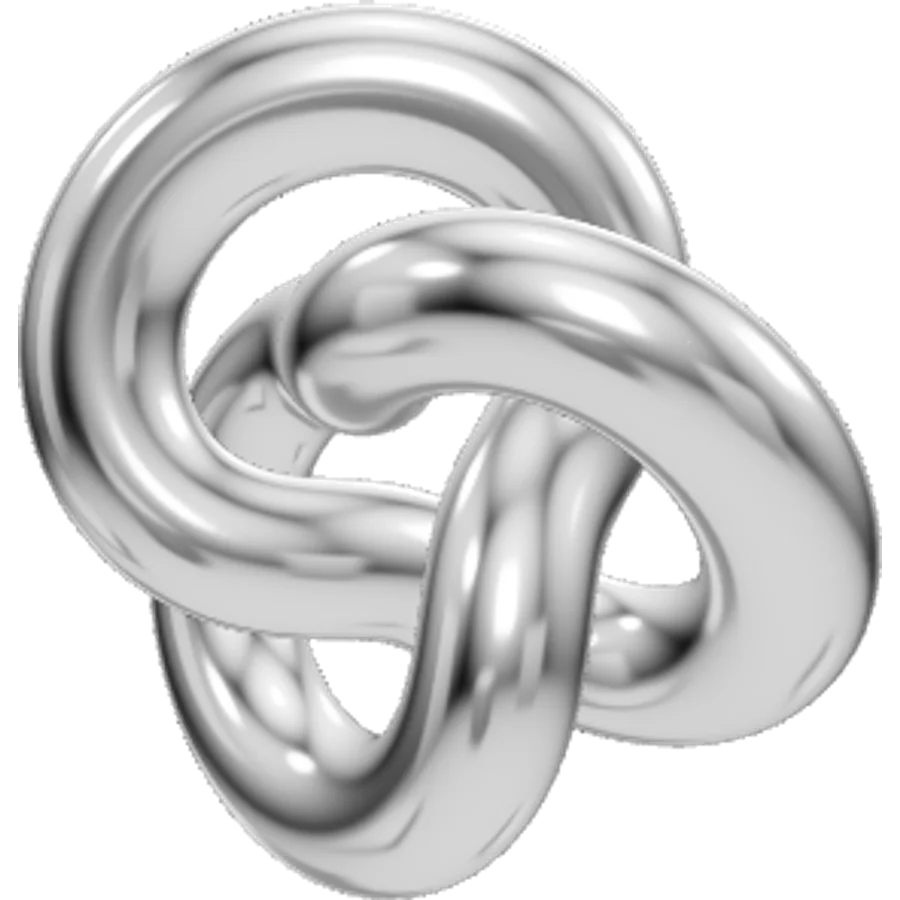
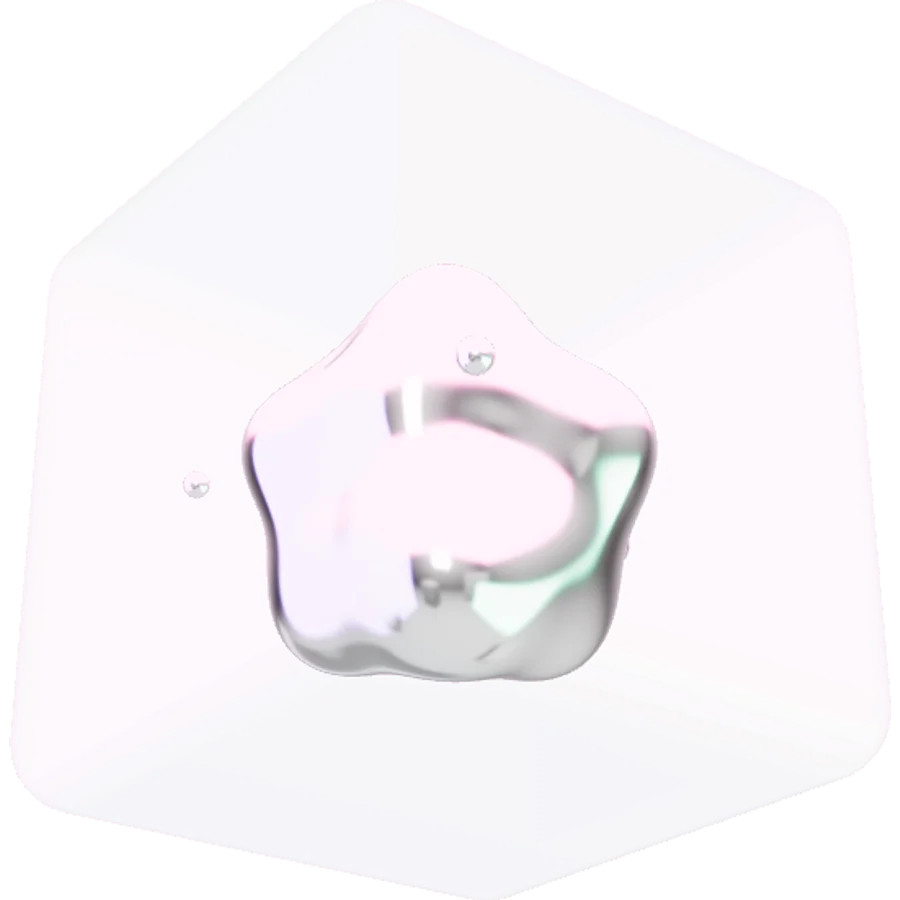
feat: hero becomes an acrylic cube holding iridescent liquid metal, placed behind the name
Claude-Session: https://claude.ai/code/session_01EcjqQSagYYCAYSAFJ2yq83

diff --git a/src/scripts/chrome-hero.ts b/src/scripts/chrome-hero.ts
@@ -1,32 +1,126 @@
 import {
   ACESFilmicToneMapping,
+  Color,
   Clock,
-  EquirectangularReflectionMapping,
+  DoubleSide,
+  Group,
+  MeshBasicMaterial,
+  PlaneGeometry,
   Mesh,
   MeshPhysicalMaterial,
   PerspectiveCamera,
   PMREMGenerator,
   Scene,
+  SphereGeometry,
   SRGBColorSpace,
-  TextureLoader,
-  TorusKnotGeometry,
+  Vector3,
   WebGLRenderer,
-  type Texture,
 } from 'three';
 import { RoomEnvironment } from 'three/examples/jsm/environments/RoomEnvironment.js';
+import { RoundedBoxGeometry } from 'three/examples/jsm/geometries/RoundedBoxGeometry.js';
 
-export type ChromeHero = { setReflection(url: string | null): void; dispose(): void };
+export type ChromeHero = { dispose(): void };
 
-/** The hero object. Swap this for a GLTF mesh exported from Blender later. */
-function createShape(): Mesh {
-  const material = new MeshPhysicalMaterial({
+type Artifact = { object: Group; update(t: number): void; dispose(): void };
+
+/**
+ * The hero artifact: a frosted acrylic cube (matching the ARCHIVE boxes) holding a slowly
+ * morphing liquid metal with an iridescent, thin-film sheen, plus a few drifting droplets.
+ */
+function createArtifact(): Artifact {
+  const group = new Group();
+
+  const glass = new MeshPhysicalMaterial({
+    color: 0xf4f3fb,
+    metalness: 0.1,
+    roughness: 0.18,
+    transparent: true,
+    opacity: 0.22,
+    clearcoat: 1,
+    side: DoubleSide,
+    depthWrite: false,
+  });
+  const cube = new Mesh(new RoundedBoxGeometry(2.3, 2.3, 2.3, 8, 0.25), glass);
+  cube.renderOrder = 2;
+
+  const liquid = new MeshPhysicalMaterial({
     color: 0xffffff,
     metalness: 1,
-    roughness: 0.08,
+    roughness: 0.06,
     clearcoat: 1,
     clearcoatRoughness: 0.04,
+    iridescence: 1,
+    iridescenceIOR: 1.8,
+    iridescenceThicknessRange: [100, 1100],
   });
-  return new Mesh(new TorusKnotGeometry(1, 0.32, 256, 48), material);
+
+  const blobGeo = new SphereGeometry(0.72, 128, 96);
+  const base = Float32Array.from(blobGeo.attributes.position.array as Float32Array);
+  const blob = new Mesh(blobGeo, liquid);
+
+  const droplets = [0.09, 0.065, 0.05].map((r, i) => {
+    const d = new Mesh(new SphereGeometry(r, 48, 32), liquid);
+    d.userData = { radius: 0.78 + i * 0.12, speed: 0.35 + i * 0.17, phase: i * 2.1, tilt: 0.6 - i * 0.45 };
+    return d;
+  });
+
+  group.add(blob, ...droplets, cube);
+
+  const v = new Vector3();
+  const pos = blobGeo.attributes.position;
+  const update = (t: number) => {
+    // Layered sine waves over the sphere: slow, breathing, never repeating exactly.
+    for (let i = 0; i < pos.count; i++) {
+      v.set(base[i * 3], base[i * 3 + 1], base[i * 3 + 2]);
+      const n = v.clone().normalize();
+      const d =
+        0.13 * Math.sin(n.x * 3.0 + t * 0.9) * Math.cos(n.y * 2.6 + t * 0.7) +
+        0.08 * Math.sin(n.z * 4.1 + n.x * 2.0 + t * 1.3) +
+        0.045 * Math.sin(n.y * 6.0 + t * 1.7);
+      v.addScaledVector(n, d);
+      pos.setXYZ(i, v.x, v.y, v.z);
+    }
+    pos.needsUpdate = true;
+    blobGeo.computeVertexNormals();
+    blob.rotation.y = t * 0.12;
+    blob.rotation.x = Math.sin(t * 0.21) * 0.3;
+    for (const d of droplets) {
+      const { radius, speed, phase, tilt } = d.userData as { radius: number; speed: number; phase: number; tilt: number };
+      const a = t * speed + phase;
+      d.position.set(Math.cos(a) * radius, Math.sin(a * 1.3) * tilt, Math.sin(a) * radius);
+    }
+  };
+  update(0);
+
+  return {
+    object: group,
+    update,
+    dispose() {
+      group.traverse((o) => {
+        if ((o as Mesh).geometry) (o as Mesh).geometry.dispose();
+      });
+      glass.dispose();
+      liquid.dispose();
+    },
+  };
+}
+
+/** The studio the metal reflects: a neutral room plus soft lavender, mint and pink light panels. */
+function dreamyRoom(): RoomEnvironment {
+  const room = new RoomEnvironment();
+  const panels: [string, [number, number, number], [number, number, number]][] = [
+    ['#9d86ff', [-4.5, 2, 1], [0, Math.PI / 2, 0]],
+    ['#5ff2b8', [4.5, -1, 1.5], [0, -Math.PI / 2, 0]],
+    ['#ff7ac8', [0, 4.5, -1], [Math.PI / 2, 0, 0]],
+    ['#7fd3ff', [0, -4.5, 2], [-Math.PI / 2, 0, 0]],
+  ];
+  for (const [hex, p, r] of panels) {
+    const m = new Mesh(new PlaneGeometry(7, 7), new MeshBasicMaterial({ color: new Color(hex).multiplyScalar(9), side: DoubleSide }));
+    m.position.set(...p);
+    m.rotation.set(...r);
+    room.add(m);
+  }
+  return room;
 }
 
 function webglAvailable(): boolean {
@@ -56,17 +150,20 @@ export function mountChromeHero(canvas: HTMLCanvasElement, opts: { reducedMotion
   camera.position.set(0, 0, 8);
 
   const pmrem = new PMREMGenerator(renderer);
-  const roomEnv = pmrem.fromScene(new RoomEnvironment(), 0.04).texture;
+  const roomEnv = pmrem.fromScene(dreamyRoom(), 0.04).texture;
   scene.environment = roomEnv;
 
-  const mesh = createShape();
-  scene.add(mesh);
+  const artifact = createArtifact();
+  const obj = artifact.object;
+  scene.add(obj);
 
   const touch = window.matchMedia('(pointer: coarse)').matches;
-  const target = { x: 0.35, y: -0.5 };
+  const target = { x: -0.45, y: 0.65 };
   const clock = new Clock();
   let frame = 0;
   let disposed = false;
+
+  const render = () => renderer.render(scene, camera);
 
   const resize = () => {
     const w = canvas.clientWidth;
@@ -74,81 +171,46 @@ export function mountChromeHero(canvas: HTMLCanvasElement, opts: { reducedMotion
     if (!w || !h) return;
     renderer.setSize(w, h, false);
     camera.aspect = w / h;
-    // Keep the object about 45% of the shorter side.
-    const fit = Math.min(1, camera.aspect) * 0.95;
-    mesh.scale.setScalar(fit);
+    obj.scale.setScalar(Math.min(1, camera.aspect) * 0.95);
     camera.updateProjectionMatrix();
     render();
   };
 
-  const render = () => renderer.render(scene, camera);
-
   const onPointer = (e: PointerEvent) => {
-    target.y = (e.clientX / window.innerWidth - 0.5) * 1.6;
-    target.x = (e.clientY / window.innerHeight - 0.5) * 1.0;
+    target.y = 0.65 + (e.clientX / window.innerWidth - 0.5) * 1.2;
+    target.x = -0.45 + (e.clientY / window.innerHeight - 0.5) * 0.7;
   };
 
   const loop = () => {
     if (disposed) return;
     const dt = Math.min(clock.getDelta(), 0.05);
     if (touch) {
-      mesh.rotation.y += 0.15 * dt;
-      mesh.rotation.x += 0.05 * dt;
+      obj.rotation.y += 0.15 * dt;
     } else {
-      mesh.rotation.x += (target.x - mesh.rotation.x) * Math.min(1, dt * 2.5);
-      mesh.rotation.y += (target.y - mesh.rotation.y) * Math.min(1, dt * 2.5);
-      mesh.rotation.z += 0.08 * dt;
+      obj.rotation.x += (target.x - obj.rotation.x) * Math.min(1, dt * 2.5);
+      obj.rotation.y += (target.y - obj.rotation.y) * Math.min(1, dt * 2.5);
     }
+    artifact.update(clock.elapsedTime);
     render();
     frame = requestAnimationFrame(loop);
   };
 
+  obj.rotation.set(target.x, target.y, 0);
   const observer = new ResizeObserver(resize);
   observer.observe(canvas);
   if (!opts.reducedMotion) {
     if (!touch) window.addEventListener('pointermove', onPointer, { passive: true });
     frame = requestAnimationFrame(loop);
   }
-  mesh.rotation.set(target.x, target.y, 0);
   resize();
 
-  const loader = new TextureLoader();
-  const envCache = new Map<string, Texture>();
-  let wanted: string | null = null;
-
   return {
-    setReflection(url) {
-      wanted = url;
-      canvas.dataset.reflection = url ?? '';
-      if (!url) {
-        scene.environment = roomEnv;
-        render();
-        return;
-      }
-      const cached = envCache.get(url);
-      if (cached) {
-        scene.environment = cached;
-        render();
-        return;
-      }
-      loader.load(url, (tex) => {
-        tex.mapping = EquirectangularReflectionMapping;
-        tex.colorSpace = SRGBColorSpace;
-        const env = pmrem.fromEquirectangular(tex).texture;
-        tex.dispose();
-        envCache.set(url, env);
-        if (wanted === url && !disposed) {
-          scene.environment = env;
-          render();
-        }
-      });
-    },
     dispose() {
       disposed = true;
       cancelAnimationFrame(frame);
       observer.disconnect();
       window.removeEventListener('pointermove', onPointer);
-      for (const t of envCache.values()) t.dispose();
+      artifact.dispose();
       roomEnv.dispose();
       pmrem.dispose();
       renderer.dispose();
